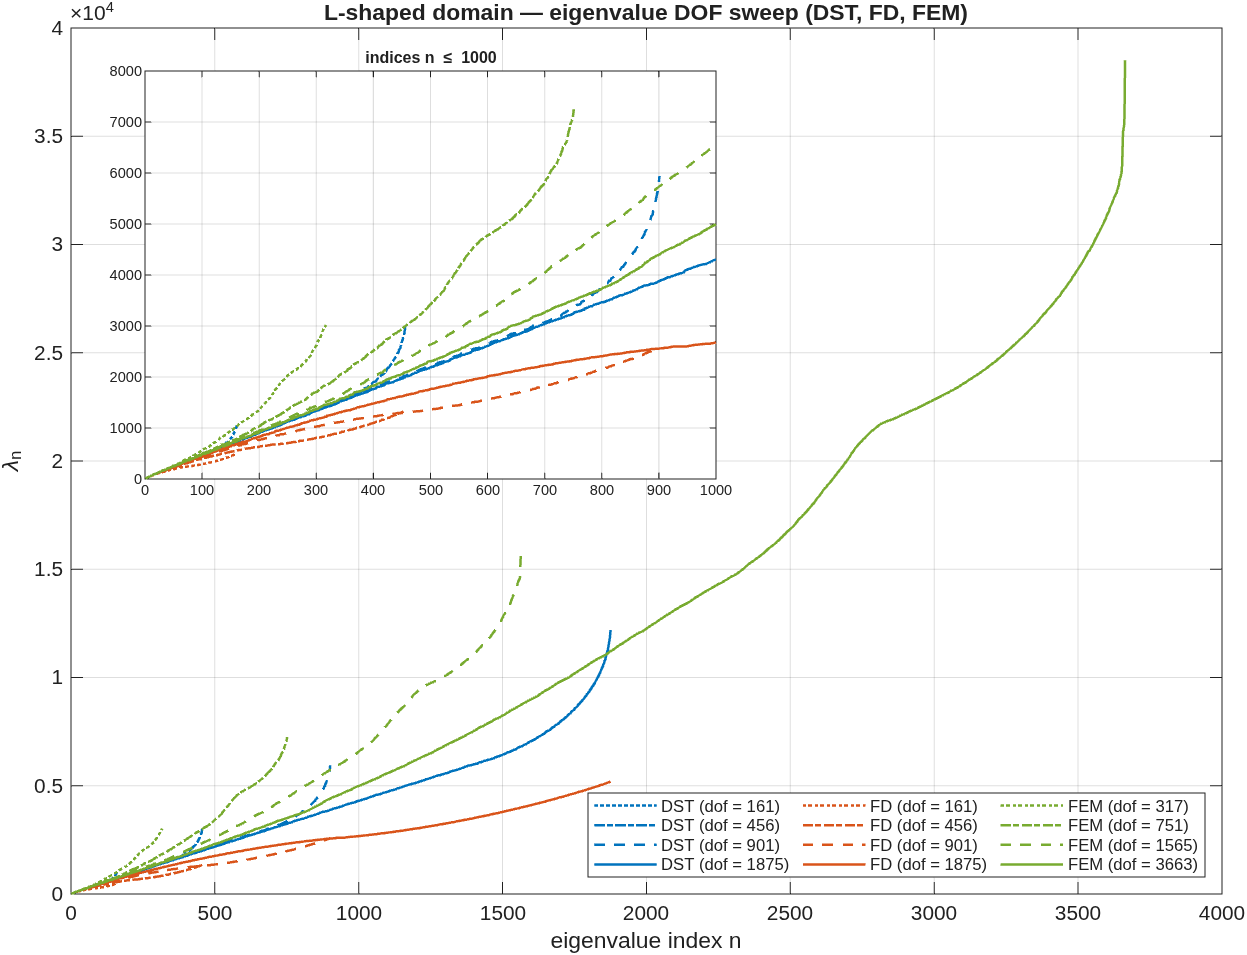
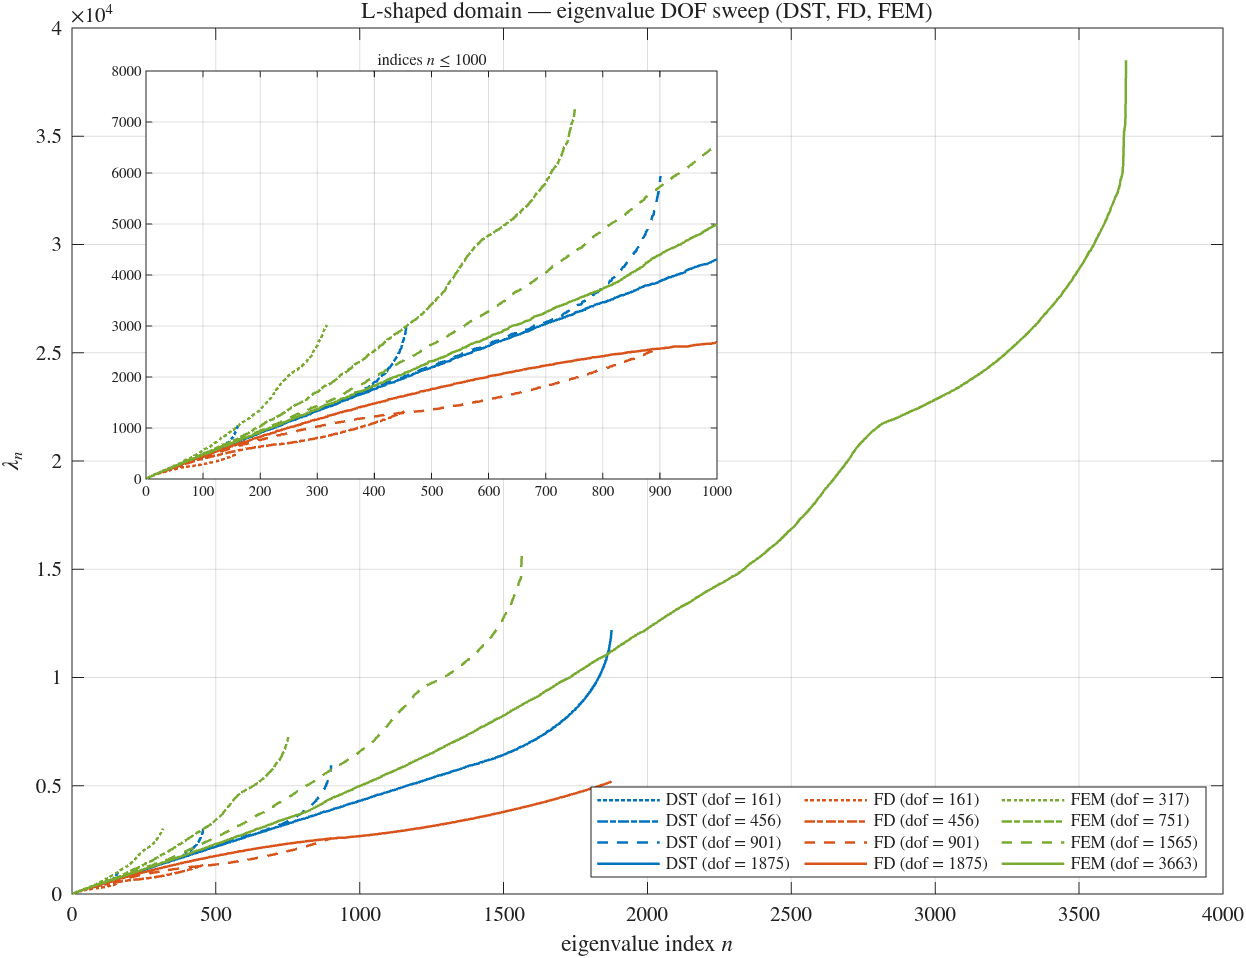
Render DOF-sweep plots in the LaTeX (Computer Modern) font
Set the LaTeX interpreter as a figure-wide default for tick labels, text, and
the legend in both DOF-sweep plot scripts, and rewrite the axis/title strings
in LaTeX math syntax. Regenerate the two PNGs.

diff --git a/experiments/dof_sweep/plot_rectangle_dof_sweep.m b/experiments/dof_sweep/plot_rectangle_dof_sweep.m
@@ -31,13 +31,18 @@ function plot_rectangle_dof_sweep()
     labels = struct('dst', 'DST', 'fd', 'FD', 'fem', 'FEM', 'cheb', 'Cheb');
     styles = {':', '-.', '--', '-'};
 
-    fig = figure('Visible', 'off', 'Position', [100 100 1000 720]);
+    % Render all text (labels, legend, tick labels) with the LaTeX
+    % interpreter, i.e. in the standard LaTeX Computer Modern font.
+    fig = figure('Visible', 'off', 'Position', [100 100 1000 720], ...
+        'defaultAxesTickLabelInterpreter', 'latex', ...
+        'defaultTextInterpreter',          'latex', ...
+        'defaultLegendInterpreter',        'latex');
 
     main = axes(fig);
     draw_all(main, results, methods, analytic, colors, labels, styles, [], true);
-    xlabel(main, 'eigenvalue index n');
-    ylabel(main, '\lambda_n');
-    title(main, 'Rectangle [0, 2\pi] \times [0, \pi] — eigenvalue DOF sweep');
+    xlabel(main, 'eigenvalue index $n$');
+    ylabel(main, '$\lambda_n$');
+    title(main, 'Rectangle $[0, 2\pi] \times [0, \pi]$ --- eigenvalue DOF sweep');
     % One column per method (DST, FD, FEM, Cheb) plus a column for the analytic.
     legend(main, 'Location', 'northwest', 'NumColumns', numel(methods) + 1, 'FontSize', 7);
     grid(main, 'on'); box(main, 'on');
@@ -51,7 +56,7 @@ function plot_rectangle_dof_sweep()
     draw_all(inset, results, methods, analytic, colors, labels, styles, 600);
     grid(inset, 'on'); box(inset, 'on');
     ylim(inset, [0, 2 * analytic(min(600, numel(analytic)))]);
-    title(inset, 'indices n \leq 600', 'FontSize', 8);
+    title(inset, 'indices $n \leq 600$', 'FontSize', 8);
     set(inset, 'FontSize', 7);
 
     png = fullfile(out_dir, 'rectangle_dof_sweep.png');

diff --git a/experiments/dof_sweep/plot_L_shaped_dof_sweep.m b/experiments/dof_sweep/plot_L_shaped_dof_sweep.m
@@ -20,20 +20,25 @@ function plot_L_shaped_dof_sweep()
     labels = struct('dst', 'DST', 'fd', 'FD', 'fem', 'FEM');
     styles = {':', '-.', '--', '-'};
 
-    fig = figure('Visible', 'off', 'Position', [100 100 950 680]);
+    % Render all text (labels, legend, tick labels) with the LaTeX
+    % interpreter, i.e. in the standard LaTeX Computer Modern font.
+    fig = figure('Visible', 'off', 'Position', [100 100 950 680], ...
+        'defaultAxesTickLabelInterpreter', 'latex', ...
+        'defaultTextInterpreter',          'latex', ...
+        'defaultLegendInterpreter',        'latex');
 
     main = axes(fig);
     draw_curves(main, results, methods, colors, labels, styles, []);
-    xlabel(main, 'eigenvalue index n');
-    ylabel(main, '\lambda_n');
-    title(main, 'L-shaped domain — eigenvalue DOF sweep (DST, FD, FEM)');
+    xlabel(main, 'eigenvalue index $n$');
+    ylabel(main, '$\lambda_n$');
+    title(main, 'L-shaped domain --- eigenvalue DOF sweep (DST, FD, FEM)');
     legend(main, 'Location', 'southeast', 'NumColumns', 3, 'FontSize', 8);
     grid(main, 'on'); box(main, 'on');
 
     inset = axes(fig, 'Position', [0.18 0.50 0.384 0.384], 'Color', 'w');
     draw_curves(inset, results, methods, colors, labels, styles, 1000);
     grid(inset, 'on'); box(inset, 'on');
-    title(inset, 'indices n \leq 1000', 'FontSize', 8);
+    title(inset, 'indices $n \leq 1000$', 'FontSize', 8);
     set(inset, 'FontSize', 7);
 
     png = fullfile(out_dir, 'L_shaped_dof_sweep.png');
